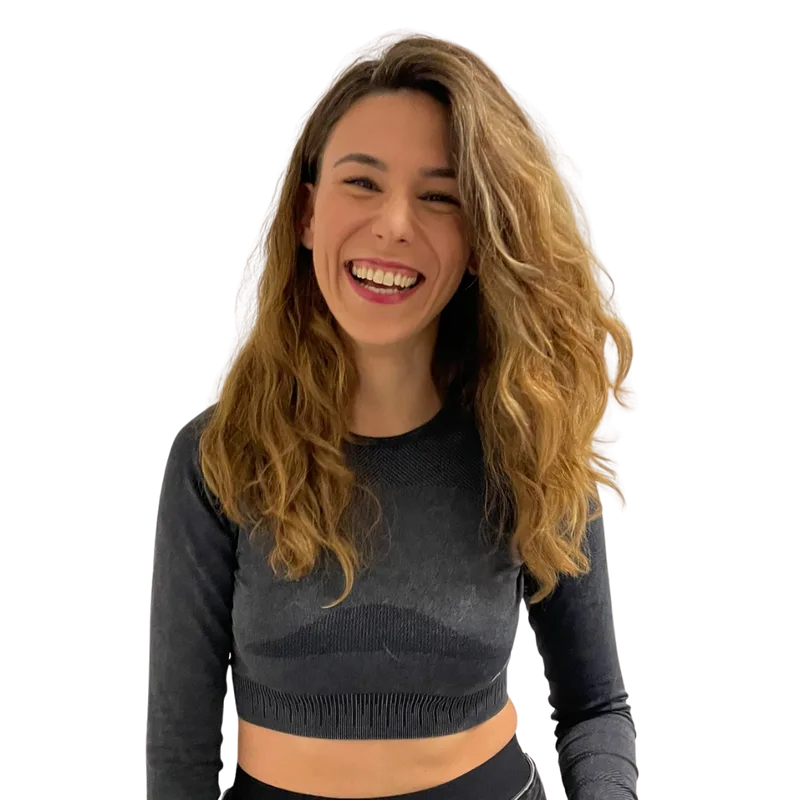
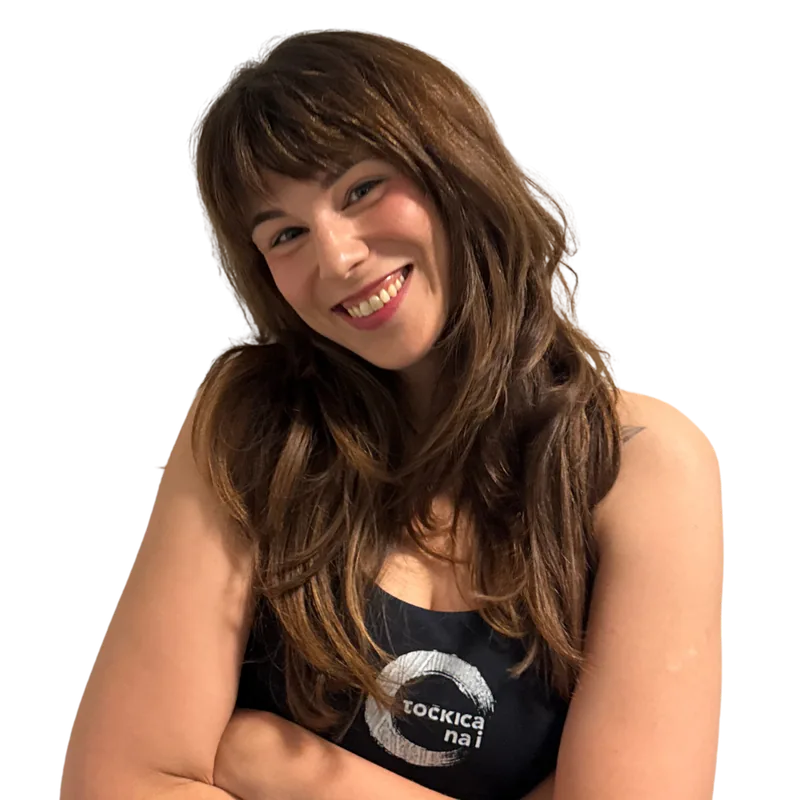
Autoload instructor playlists, add six playlist ids and the new Ena photo

diff --git a/site/src/data/instructors.ts b/site/src/data/instructors.ts
@@ -15,6 +15,7 @@ export type Instructor = {
 export const instructors: Instructor[] = [
   {
     slug: 'dunia',
+    playlist: '3xn6F7PHexXhjJOm9DKYLN',
     first: 'Dunia',
     full: 'Dunia Mando',
     line: {
@@ -33,6 +34,7 @@ export const instructors: Instructor[] = [
   },
   {
     slug: 'ivana',
+    playlist: '1pWoC8FgkMj3Rj2B3PAkCZ',
     first: 'Ivana',
     full: 'Ivana Mauer',
     line: {
@@ -42,6 +44,7 @@ export const instructors: Instructor[] = [
   },
   {
     slug: 'mirna',
+    playlist: '5e8AaNH76DH2jiONYTNQyE',
     first: 'Mirna',
     full: 'Mirna Zebec',
     line: {
@@ -51,6 +54,7 @@ export const instructors: Instructor[] = [
   },
   {
     slug: 'ena',
+    playlist: '2E01usHMXxp4RRNpcFP6wj',
     first: 'Ena',
     full: 'Ena Vušić',
     line: {
@@ -60,6 +64,7 @@ export const instructors: Instructor[] = [
   },
   {
     slug: 'domagoj',
+    playlist: '1yWKnKeLzeBqK8ox0g7ApW',
     first: 'Domagoj',
     full: 'Domagoj Vončina',
     line: {
@@ -69,6 +74,7 @@ export const instructors: Instructor[] = [
   },
   {
     slug: 'emma',
+    playlist: '1ZE1Pj26u5yCeg4dvN4DyI',
     first: 'Emma',
     full: 'Emma Stepinac',
     line: {

diff --git a/site/src/lib/instructor-photo.ts b/site/src/lib/instructor-photo.ts
@@ -27,7 +27,7 @@ const FACE: Record<string, Focus> = {
   oliver: [43, 28],
   ivana: [43, 31],
   mirna: [46, 34],
-  ena: [47, 31],
+  ena: [44, 31],
   domagoj: [43, 27],
   emma: [47, 21],
 };
